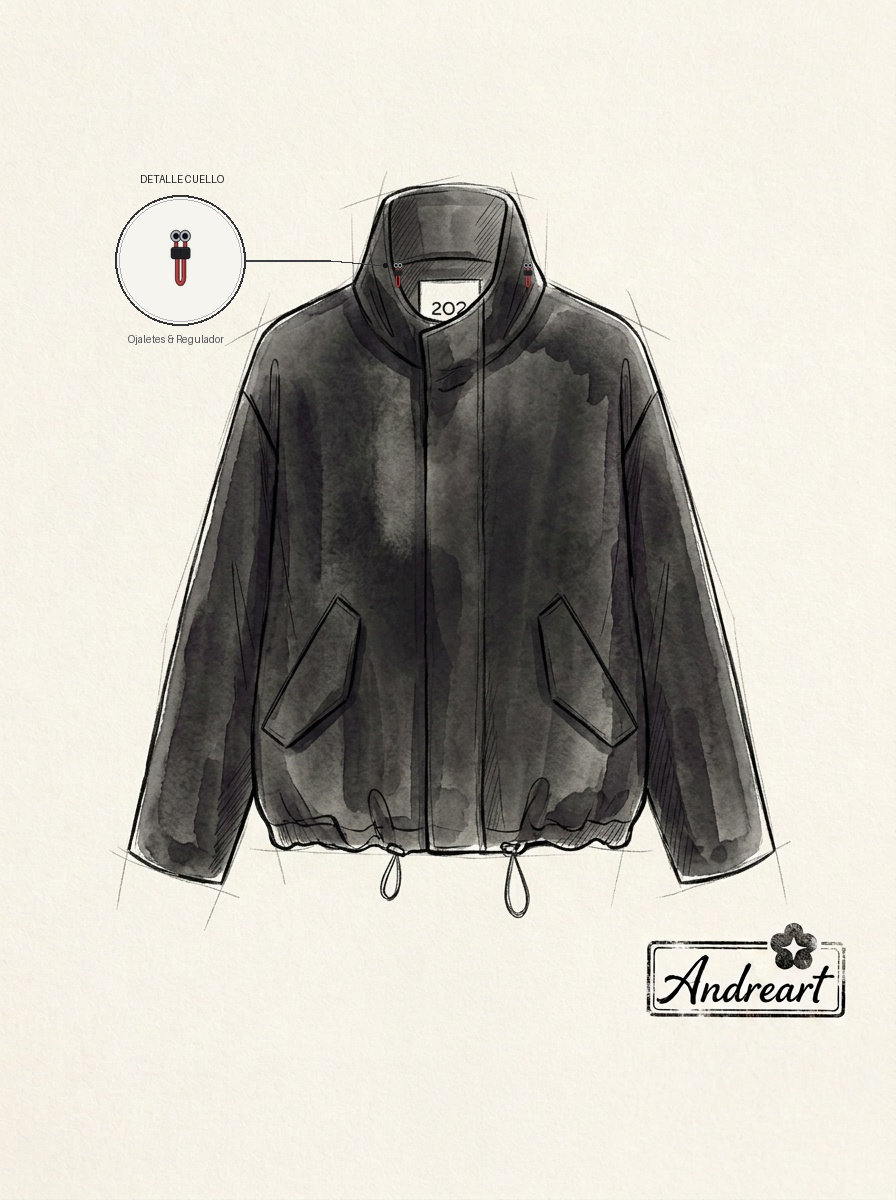
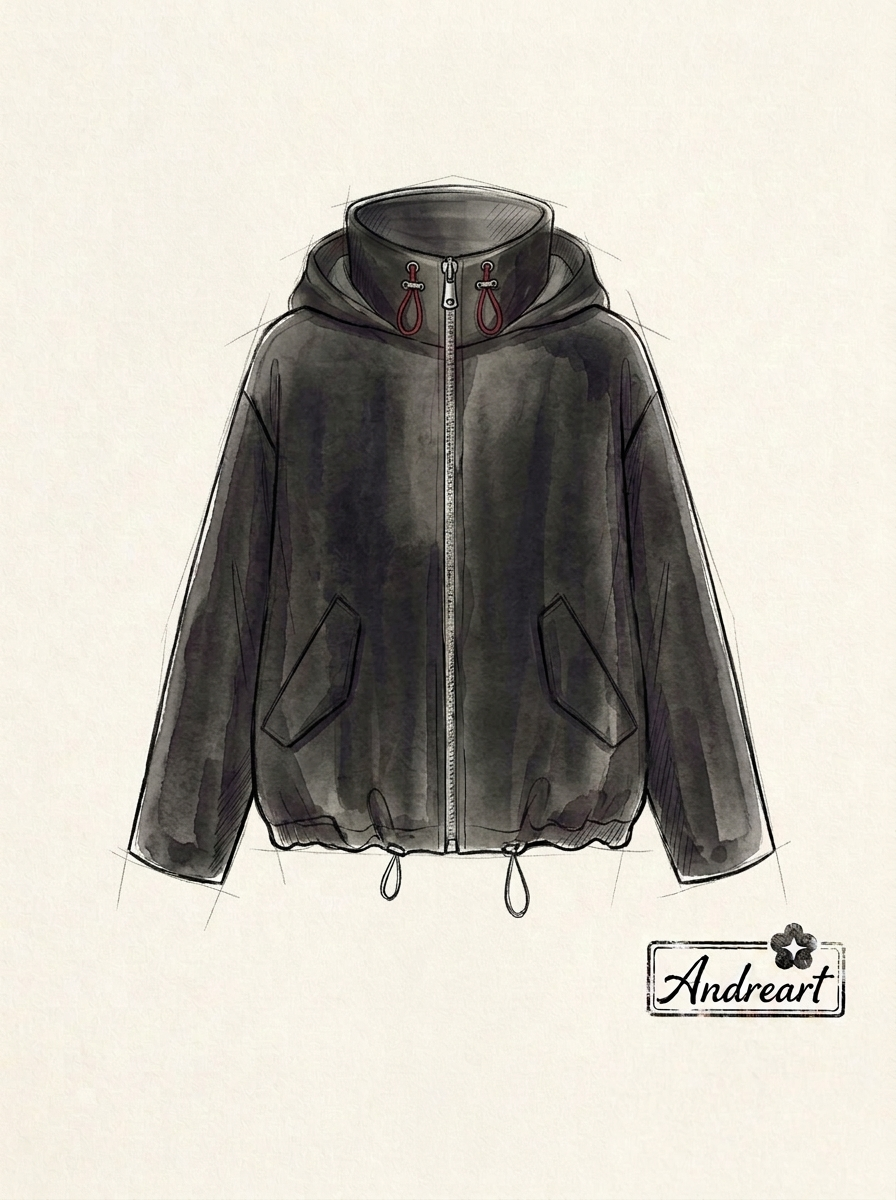
feat(kokusen): update technical flats of jacket alone (front and back) with hood and realistic details
- Regenerate 04-sketch-chaqueta-frente.jpg (front flat of jacket alone with chimney collar, continuous metal zipper, red cord loops, angled pockets, and hood)
- Regenerate 05-sketch-chaqueta-atras.jpg (back flat of jacket alone with draped hood, tailored yoke, and gathered hem)
- Update SPEC.md, manifest.json, and index.ts descriptions

diff --git a/Andreart Brain/01 Brand Context/Colecciones/Kokusen/index.ts b/Andreart Brain/01 Brand Context/Colecciones/Kokusen/index.ts
@@ -94,7 +94,7 @@ export const ASSETS: Record<string, CollectionAsset> = {
     category: 'flat-technical',
     garment: 'Chaqueta Cuello Chimenea Kokusen',
     view: 'delantera',
-    description: 'Croquis plano frontal de la Chaqueta Blouson con cuello chimenea (11 cm), tapeta limpia oculta y tancas.',
+    description: 'Croquis plano frontal de la Chaqueta Blouson con cuello chimenea (11 cm), cremallera metálica continua, ojaletes con tancas carmesí, bolsillos diagonales y capota.',
     sourceReference: null,
     status: 'active',
     approved: true
@@ -106,7 +106,7 @@ export const ASSETS: Record<string, CollectionAsset> = {
     category: 'flat-technical',
     garment: 'Chaqueta Cuello Chimenea Kokusen',
     view: 'trasera',
-    description: 'Croquis plano dorsal de la Chaqueta Blouson con canesú limpio, hombros caídos y pretina con elástico.',
+    description: 'Croquis plano dorsal de la Chaqueta Blouson con canesú sastre, hombros caídos, pretina con elástico y capota drapeada.',
     sourceReference: null,
     status: 'active',
     approved: true

diff --git a/Andreart Brain/01 Brand Context/Colecciones/Kokusen/SPEC.md b/Andreart Brain/01 Brand Context/Colecciones/Kokusen/SPEC.md
@@ -98,12 +98,12 @@ Diseñado con dedicación artesanal y visión de autor para integrar la presenci
 
 ## 📐 4.2. Bocetos Técnicos Individuales por Prenda (Fashion Flats a Mano Alzada)
 
-### Chaqueta Cuello Chimenea Kokusen (Diseño Minimalista con Detalle de Autor)
+### Chaqueta Cuello Chimenea Kokusen (Diseño Minimalista con Detalle de Autor y Capota)
 ![[01 Brand Context/Colecciones/Kokusen/assets/04-sketch-chaqueta-frente.jpg]]
-*Chaqueta - Vista Delantera:* Silueta blouson minimalista con cuello alto chimenea estructurado (11 cm), tapeta frontal limpia con cremallera oculta, bolsillos diagonales con cartera, jareta en bajo y el detalle puntual en el cuello: ojaletes metálicos dobles con regulador de cordón y lazo tubular en U.
+*Chaqueta - Vista Delantera:* Silueta blouson minimalista con cuello alto chimenea estructurado (11 cm), cremallera metálica central continua visible hasta el borde superior del cuello con tirador metálico, ojaletes dobles con lazos tubulares cortos en U carmesí (#D01E29) y tancas, bolsillos diagonales con cartera, pretina fruncida en bajo con tensores frontales y la capota integrada reposando detrás del cuello sobre los hombros.
 
 ![[01 Brand Context/Colecciones/Kokusen/assets/05-sketch-chaqueta-atras.jpg]]
-*Chaqueta - Vista Trasera:* Espalda depurada con canesú limpio, hombros caídos de corte sastre y pretina fruncida elástica en el bajo.
+*Chaqueta - Vista Trasera:* Espalda depurada con canesú sastre, hombros caídos, pretina fruncida elástica en el bajo y la capota integrada drapeada con volumen sastre sobre la parte superior de la espalda.
 
 ### Pantalón Globo Plisado Kokusen (Silueta Bombacho de Alta Sastrería)
 ![[01 Brand Context/Colecciones/Kokusen/assets/06-sketch-pantalon-frente.jpg]]
